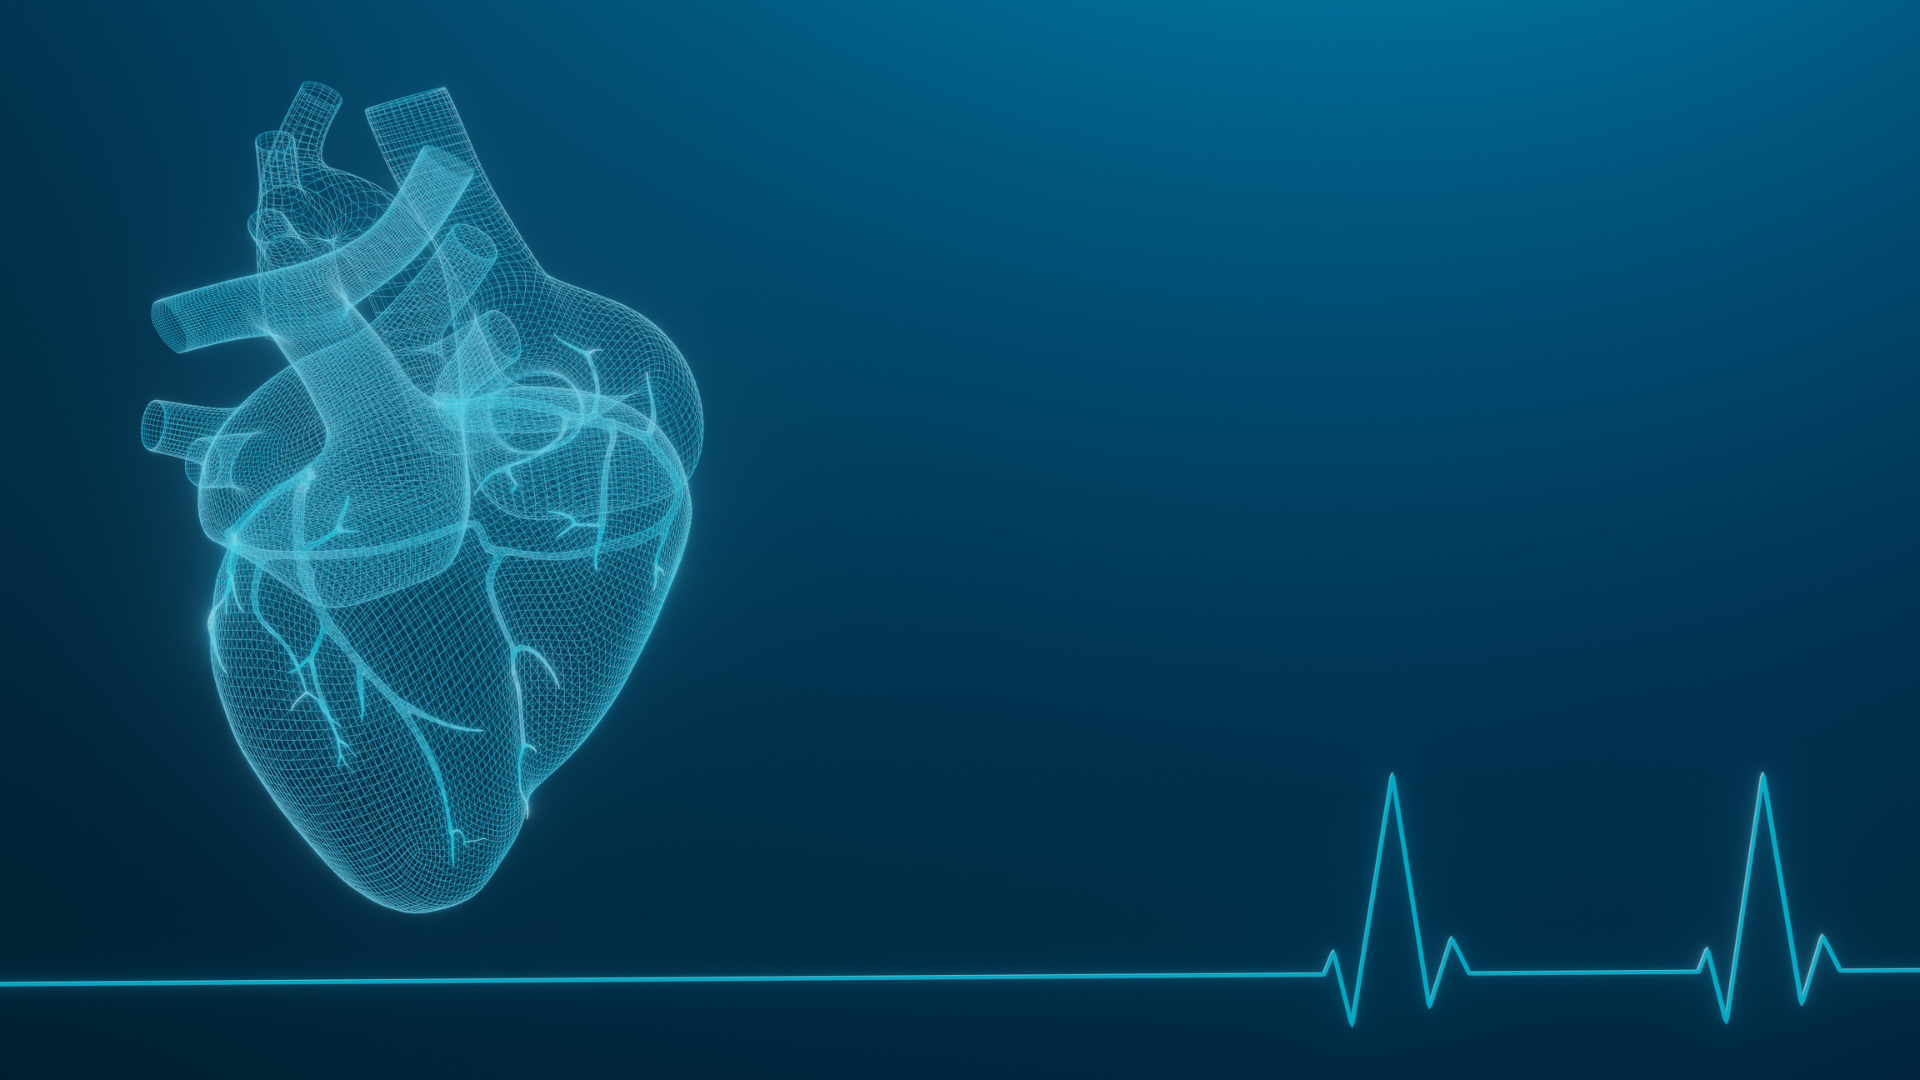
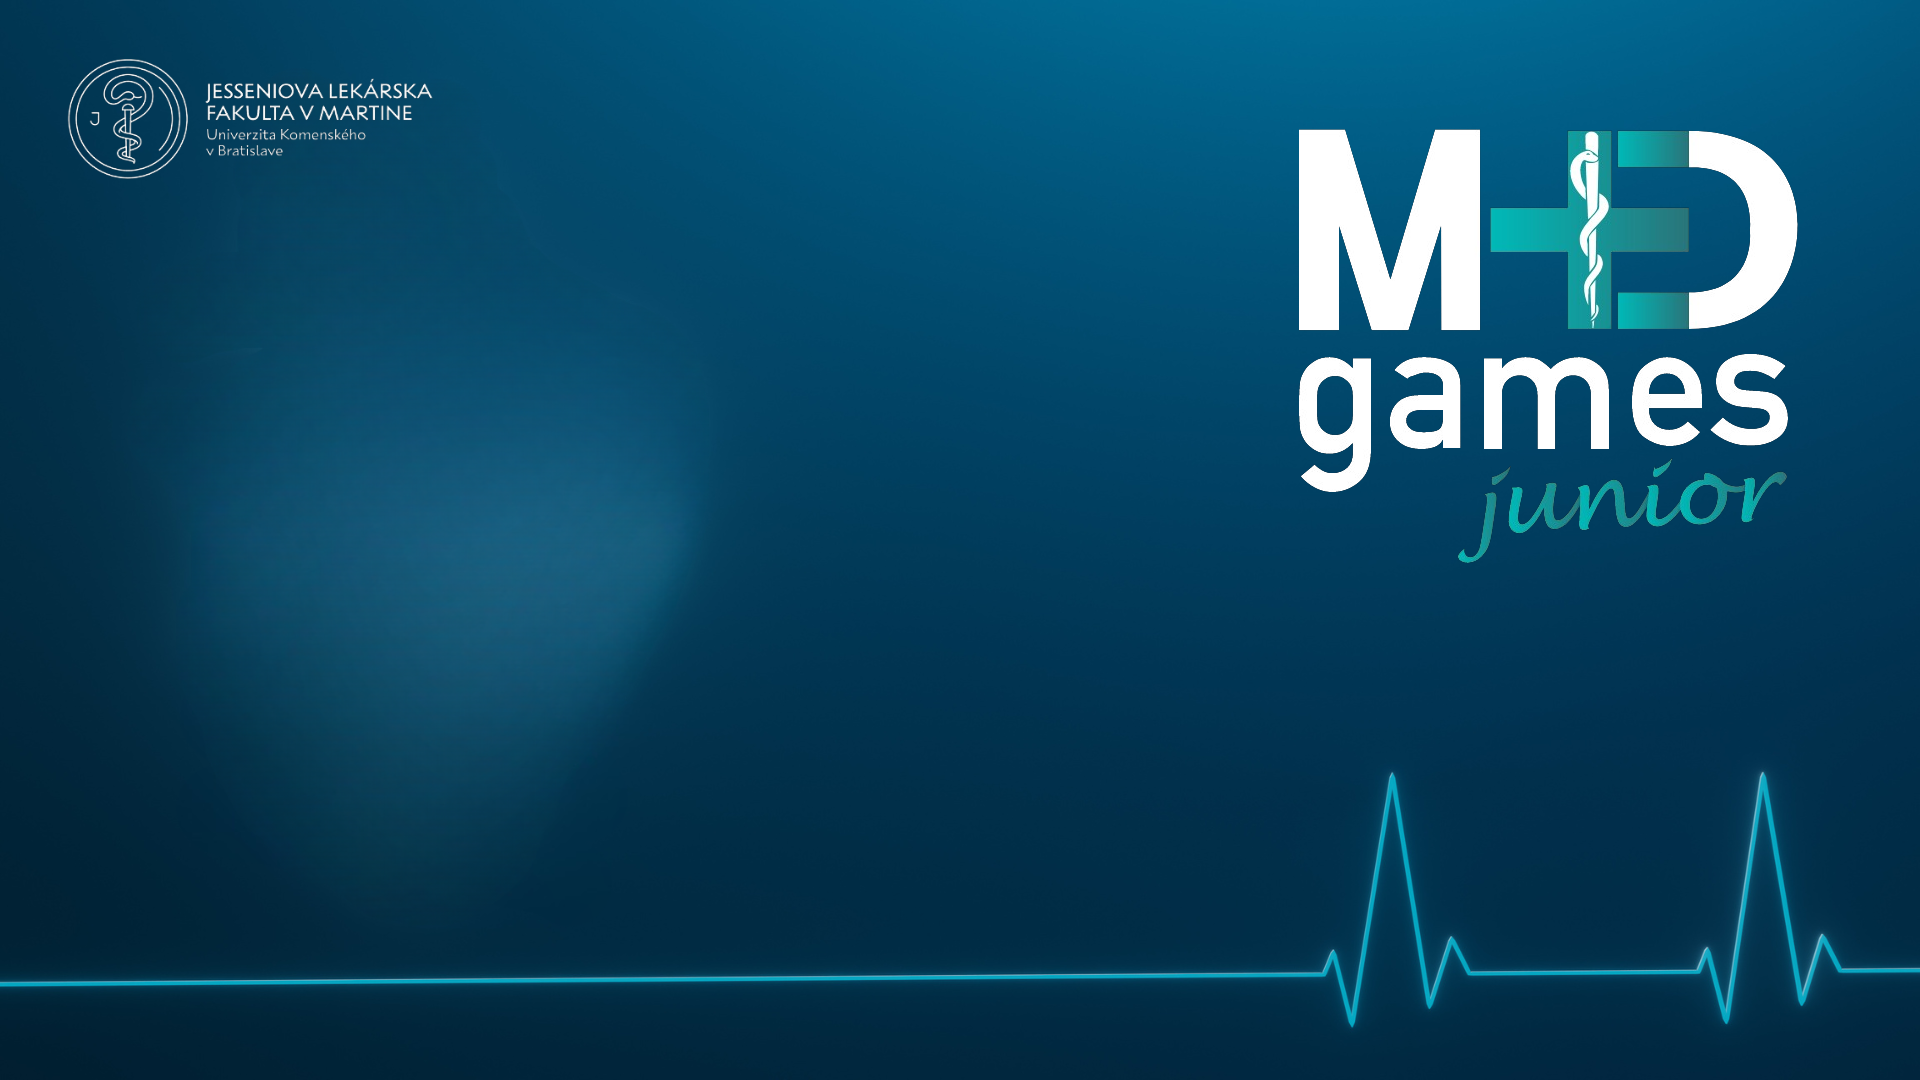
version 3.0

Changed region(s): [[0.0312, 0.0611, 0.375, 0.8556], [0.6562, 0.1222, 0.9375, 0.5194]]

diff --git a/index.html b/index.html
@@ -3,59 +3,83 @@
 <head>
 <meta charset="UTF-8">
 <meta name="viewport" content="width=device-width, initial-scale=1.0">
+<link href="https://fonts.googleapis.com/css2?family=Montserrat:wght@400;700&display=swap" rel="stylesheet">
 <title>M+D Games Junior Event</title>
 <style>
-    body {
-        font-family: 'Arial', sans-serif;
+    @import url('https://fonts.googleapis.com/css2?family=Montserrat:wght@400;700&display=swap');
+
+    body, html {
+        margin: 0;
+        padding: 0;
+        height: 100%;
+        font-family: 'Montserrat', sans-serif;
         text-align: center;
         background-color: #012f49; /* Adjusted to match the logo color */
         color: white;
-        background-image: url('background_design_cleanup.png'); /* Path to your background image */
+        background-image: url('background_design.png'); /* Path to your background image */
         background-size: cover; /* Cover the entire page */
         background-position: center center; /* Center the image */
         background-attachment: fixed; /* Fixed background */
     }
     .container {
-        max-width: 600px;
-        margin: auto;
-        padding-top: 50px;
+        position: relative;
+        height: 100%;
     }
-    .logo {
-        max-width: 100%;
-        height: auto;
+    .heart {
+        width: 35%; /* Adjust size as needed */
+        position: absolute;
+        top: 12%;
+        left: 5%;
+        transform: translate(-50%, -50%);
+        animation: pump 2s infinite;
+    }
+    .content {
+        position: absolute;
+        top: 50%;
+        left: 50%;
+        transform: translate(-50%, -50%);
+        text-align: center;
+    }
+    .announcement {
+        font-size: 1.5rem;
+        margin-bottom: 20px;
+        font-weight: 500;
     }
     .countdown {
         font-size: 2rem;
-        margin: 20px 0;
+        margin-bottom: 50px; /* Space between countdown and button */
     }
     .register-btn {
-        background-color: #4CAF50; /* Green */
+        background-color: #008CBA; /* Example: A nice blue */
+        font-weight: 700; /* Make the text on the button bold */
+        box-shadow: 0 4px #005f73;
         color: white;
         padding: 14px 25px;
-        text-align: center;
-        text-decoration: none;
-        display: inline-block;
         font-size: 20px;
-        margin: 4px 2px;
-        cursor: pointer;
+        text-decoration: none;
         border: none;
         border-radius: 5px;
+        cursor: pointer;
     }
     @keyframes pump {
         0%, 100% { transform: scale(1); }
         50% { transform: scale(1.1); }
-    }
-    .heart {
-        animation: pump 2s infinite;
     }
 </style>
 </head>
 <body>
 
     <div class="container">
-        <img src="heart.png" alt="Beating Heart" class="heart logo">
-        <div id="countdown" class="countdown"></div>
-        <a href="https://forms.gle/j5QkFozME7bvUZic8" class="register-btn">Register Now</a>
+        <img src="heart.png" alt="Beating Heart" class="heart">
+        <div class="content">
+            <div class="announcement">
+                Zaregistruj sa na Medgames Junior<br> 
+                už teraz!<br>
+                Poponáhlaj sa, lebo už ti zostáva iba:
+            </div>
+            <div id="countdown" class="countdown"></div>
+            <a href="https://forms.gle/j5QkFozME7bvUZic8" class="register-btn">Register Now</a>
+        </div>
     </div>
 
 <script>
